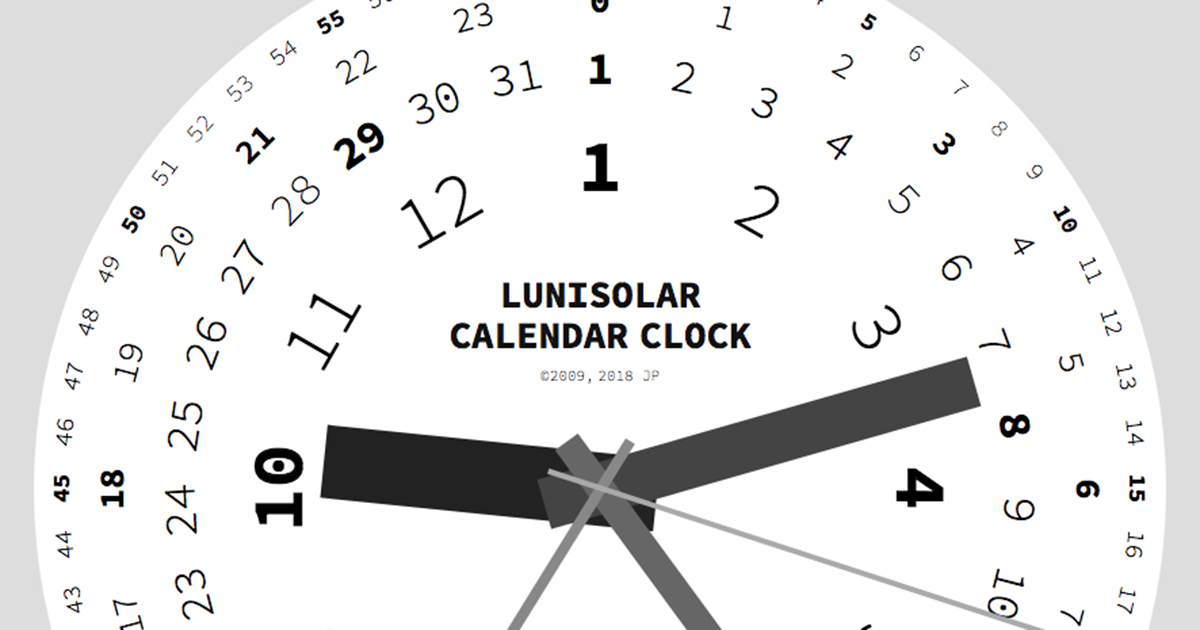
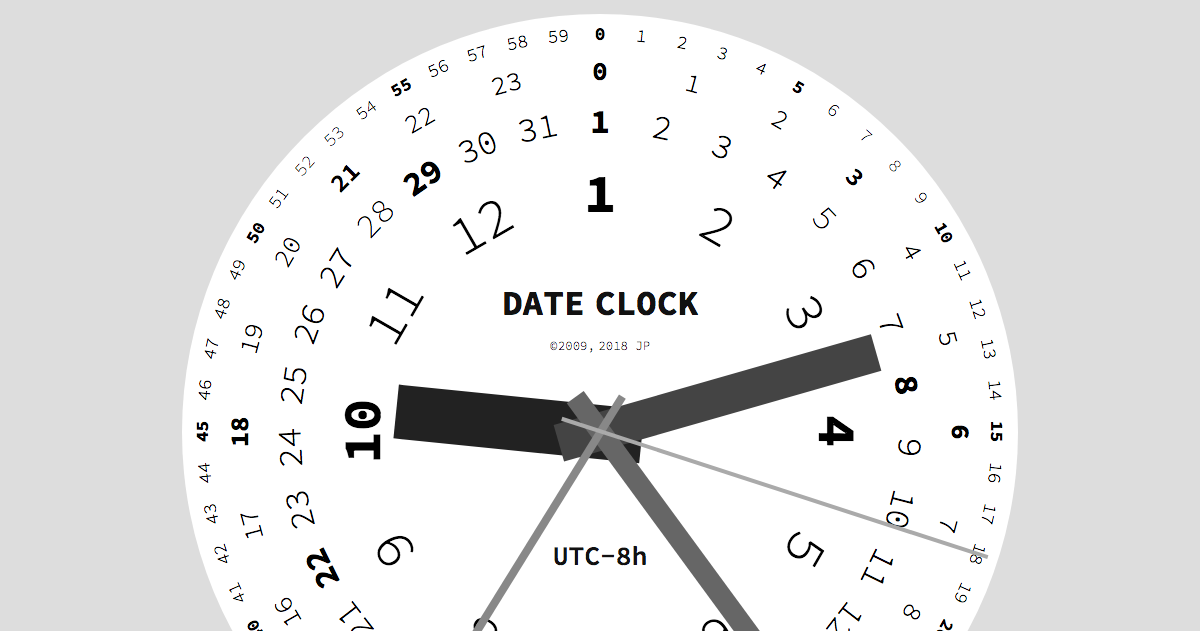
Drop "Lunisolar" from brand.

diff --git a/index.html b/index.html
@@ -11,14 +11,14 @@
         <meta name="theme-color" content="#777">
         <meta name="robots" content="index, follow">
 
-        <meta property="og:title" content="Lunisolar Date Clock">
+        <meta property="og:title" content="Date Clock">
         <meta property="og:type" content="website">
         <meta property="og:image" content="http://dateclock.net/images/dateclock-og.png">
         <meta property="og:url" content="http://dateclock.net/">
         <meta property="og:description" content="Analog layering of date and time.">
 
         <meta name="twitter:card" content="summary_large_image">
-        <meta name="twitter:title" content="Lunisolar Date Clock">
+        <meta name="twitter:title" content="Date Clock">
         <meta name="twitter:description" content="Analog layering of date and time.">
         <meta name="twitter:image" content="http://dateclock.net/images/dateclock-og.png">
 
@@ -75,7 +75,7 @@
             <p class="supertitle" id="supertitle-minute">Minute</p>
             <p class="supertitle" id="supertitle-second">Second</p>
 
-            <p class="brand">LUNISOLAR<br>DATE&#x2004;CLOCK</p>
+            <p class="brand">DATE&#x2004;CLOCK</p>
             <p class="copyright">&#xa9;&#x200A;2009,&#x2004;2018&#x0020;JP</p>
             <p class="utc-offset" id="utc-offset">UTC&#xb1;0.0h</p>
         </div>
@@ -96,7 +96,7 @@
             <div class="hand focal hand-second" id="hand-second"></div>
         </div>
 
-        <p class="display-digital"><span class="digit focal digit-month" id="digit-month">00</span><span class="digit">&#x2010;</span><span class="digit focal digit-day" id="digit-day">00</span><span class="digit">&#x2002;</span><span class="digit focal digit-hour" id="digit-hour">00</span><span class="digit">&#x3a;</span><span class="digit focal digit-minute" id="digit-minute">00</span><span class="digit">&#x3a;</span><span class="digit focal digit-second" id="digit-second">00</span></p>
+        <p class="display-digital"><span class="digit focal digit-month" id="digit-month">00</span><span class="digit">&#x2010;</span><span class="digit focal digit-day" id="digit-day">00</span><span class="digit">&#x2004;&#x2004;</span><span class="digit focal digit-hour" id="digit-hour">00</span><span class="digit">&#x3a;</span><span class="digit focal digit-minute" id="digit-minute">00</span><span class="digit">&#x3a;</span><span class="digit focal digit-second" id="digit-second">00</span></p>
 
         <div class="sep-hori"></div>
 
@@ -108,7 +108,7 @@
         </div>
 
         <div class="panel" id="panel">
-            <h1>LUNISOLAR DATE&#xa0;CLOCK</h1>
+            <h1>DATE&#xa0;CLOCK</h1>
             <p>An holistic view of cyclic time.</p>
             <p>Touch hands or digits to show names.</p>
             <p>Toggle:</p>

diff --git a/dateclock.css b/dateclock.css
@@ -86,15 +86,15 @@ input {
     width: 100%;
 }
 .brand {
-    font-size: 3.3vw;
+    font-size: 4.125vw;
     font-weight: 700;
     line-height: 1.125;
-    top: 31.25%;
+    top: 32.5%;
 }
 .copyright {
-    font-size: 2vw;
+    font-size: 2.33vw;
     font-weight: 300;
-    top: 39.5%;
+    top: 38.5%;
 }
 .utc-offset {
     bottom: 33.5%;
@@ -120,10 +120,10 @@ input {
 .display-digital {
     background-color: #000;
     display: inline-block;
-    font-size: 7.6vw;
+    font-size: 6.7vw;
     font-weight: 300;
     margin: 0 auto;
-    padding: 1vw 6vw 0.9vw;
+    padding: 2vw 7.5vw 1.25vw;
     transition: background-color 0.25s;
 }
 #toggle-theme:checked ~ .display-digital {
@@ -454,13 +454,8 @@ input {
 .panel > h1, .panel > p, .panel > ul {
     margin: 5vw 0;
 }
-.panel > .copyright {
-    font-size: 75%;
-    margin-bottom: 0;
-    position: static;
-}
 .panel > h1 {
-    font-size: 120%;
+    font-size: 133%;
     font-weight: 700;
     margin-top: 0;
 }
@@ -473,6 +468,11 @@ input {
     margin: 2.5vw 0;
     padding-left: 5.5vw;
     text-indent: -5vw;
+}
+.panel > .copyright {
+    font-size: 75%;
+    margin-bottom: 0;
+    position: static;
 }
 .toggle-label-panel {
     background-color: #000;
@@ -535,17 +535,18 @@ input {
         width: 70vh;
     }
     .brand {
-        font-size: 2.4vh;
+        font-size: 3vh;
     }
     .copyright {
-        font-size: 1vh;
+        font-size: 1.125vh;
+        top: 39%;
     }
     .utc-offset {
         font-size: 2.4vh;
     }
     .display-digital {
-        font-size: 5.6vh;
-        padding: 0.7vh 4.4vh 0.5vh;
+        font-size: 5.125vh;
+        padding: 0.75vh 4.5vh 0.67vh;
     }
     .pip-month {
         font-size: 4.4vh;
@@ -626,10 +627,17 @@ input {
         width: 85vh;
     }
     .brand {
-        font-size: 2.8vh;
+        font-size: 3.5vh;
     }
     .copyright {
-        font-size: 1.1vh;
+        font-size: 1.25vh;
+    }
+    .utc-offset {
+        font-size: 2.67vh;
+    }
+    .display-digital {
+        font-size: 5.2vh;
+        padding: 0.9vh 4.5vh 0.67vh;
     }
     .pip-month {
         font-size: 5.5vh;
